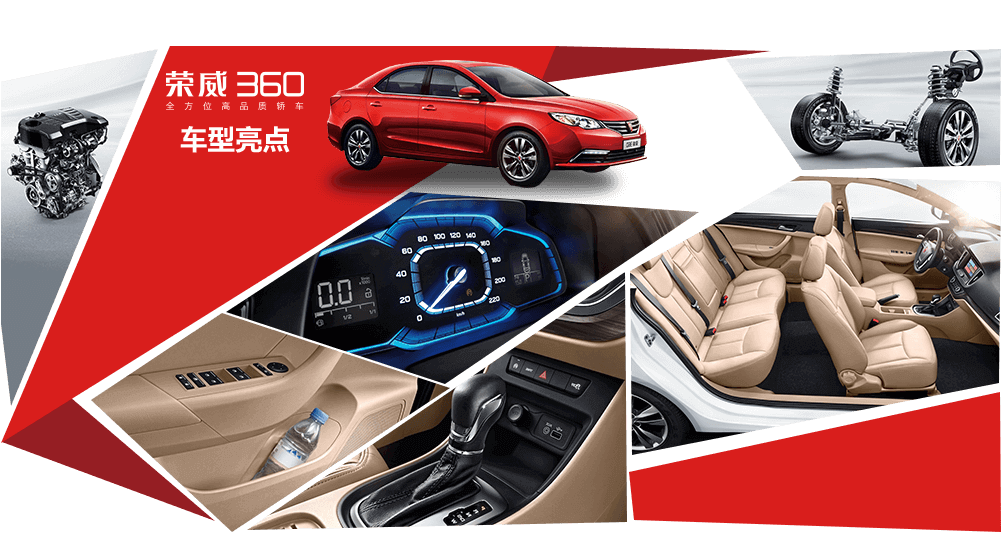
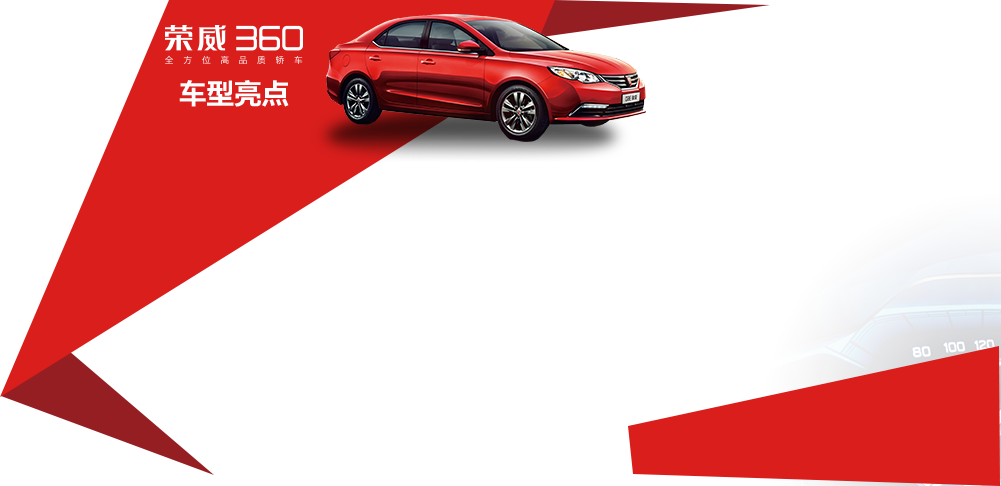
liangdiantu 放大，加链接

diff --git a/app/assets/stylesheets/global.css.scss b/app/assets/stylesheets/global.css.scss
@@ -111,9 +111,7 @@ button.properties{
       width: 330px;
       float: right;
       margin-right: 196px;
-      &:hover{
-        cursor: pointer;
-      }
+      cursor: pointer;
     }
   }
 }
@@ -127,9 +125,7 @@ button.properties{
         overflow: hidden;
         >img{
           float: left;
-          &:hover{
-            cursor: pointer;
-          }
+          cursor: pointer;
         }
         ul.groups{
           float: left;
@@ -148,9 +144,7 @@ button.properties{
               height: 36px;
               color: #fefefe;
               padding: 0 64px;
-              &:hover{
-                cursor: pointer;
-              }
+              cursor: pointer;
               &:after {
                 @include triangle(36px,14px);
                 right: -14px;
@@ -228,9 +222,7 @@ button.properties{
                     padding: 0 24px 0 38px;
                     box-sizing:border-box;
                     background: url(image_path('dianzanborder.png')) no-repeat;
-                    &:hover{
-                      cursor: pointer;
-                    }
+                    cursor: pointer;
                     i{
                       float: left;
                       display: inline-block;
@@ -316,9 +308,7 @@ button.properties{
               height: 36px;
               color: #fefefe;
               padding: 0 64px;
-              &:hover{
-                cursor: pointer;
-              }
+              cursor: pointer;
               &:after {
                 @include triangle(36px,14px);
                 right: -14px;
@@ -505,13 +495,98 @@ button.properties{
   }
 }
 .liangdian{
+  margin-top: 20px;
   .warp{
     width: 1012px;
     margin: 0 auto;
     text-align: center;
-    a.bigimage{
+    .liangdianimages{
+      margin-bottom: 16px;
+      background: url(image_path('liangdianbg.png'));
+      width: 1001px;
+      height: 486px;
+      position: relative;
       img{
-        margin-bottom: 16px;
+        position: absolute;
+        transition-duration:0.3s;
+      }
+      .left1{
+        left: 0;
+        top: 0;
+        z-index: 1;
+        &:hover{
+          transform:scale(1.2);
+          z-index: 5;
+        }
+      }
+      .zhong1{
+        left: 228px;
+        top: 144px;
+        z-index: 1;
+      }
+      p.blockzhong1{
+        position: absolute;
+        width: 177px;
+        height: 125px;
+        z-index:4;
+        left:345px;
+        top: 169px;
+        &:hover+img{
+          transform:scale(1.2);
+          z-index: 2;
+        }
+      }
+      p.blockzhong2{
+        position: absolute;
+        width: 177px;
+        height: 125px;
+        z-index:4;
+        left:145px;
+        top: 301px;
+        &:hover+img{
+          transform:scale(1.2);
+          z-index: 2;
+        }
+      }
+      .zhong2{
+        left: 88px;
+        top: 266px;
+        z-index: 1;
+      }
+      p.blockzhong3{
+        position: absolute;
+        width: 177px;
+        height: 125px;
+        z-index:4;
+        left:448px;
+        top: 340px;
+        &:hover+img{
+          transform:scale(1.2);
+          z-index: 2;
+        }
+      }
+      .zhong3{
+        left: 245px;
+        top: 227px;
+        z-index: 1;
+      }
+      .right1{
+        right: 0;
+        top: 2px;
+        z-index: 1;
+        &:hover{
+          transform:scale(1.2);
+          z-index: 5;
+        }
+      }
+      .right2{
+        right: 0;
+        bottom: 78px;
+        z-index: 1;
+        &:hover{
+          transform:scale(1.2);
+          z-index: 5;
+        }
       }
     }
     a.button{
